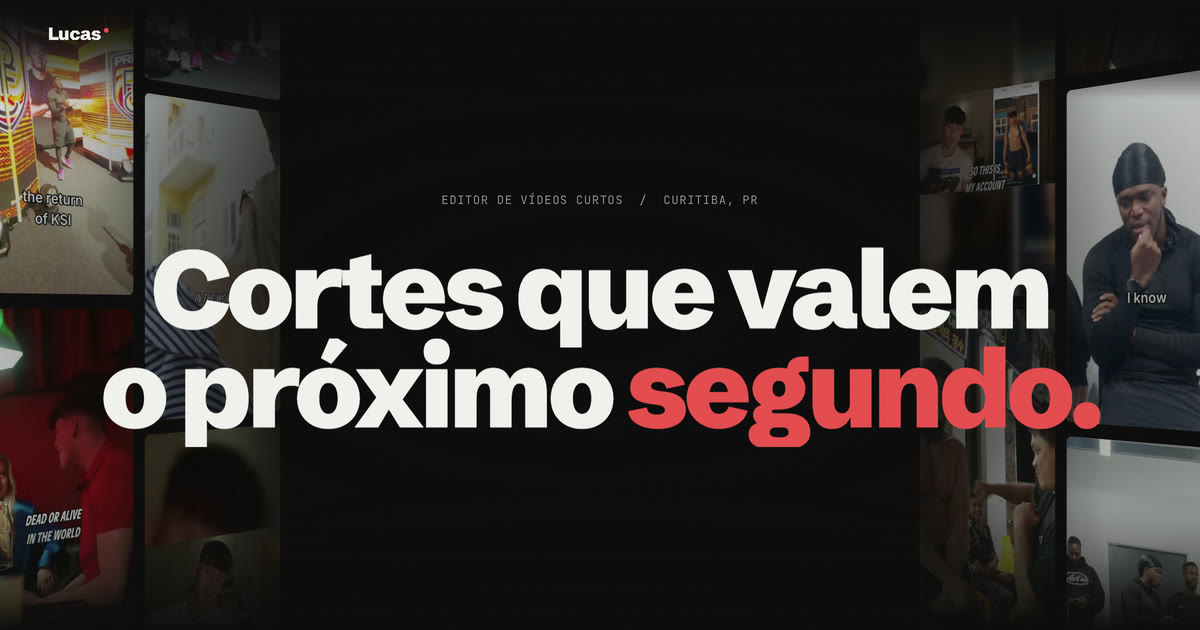
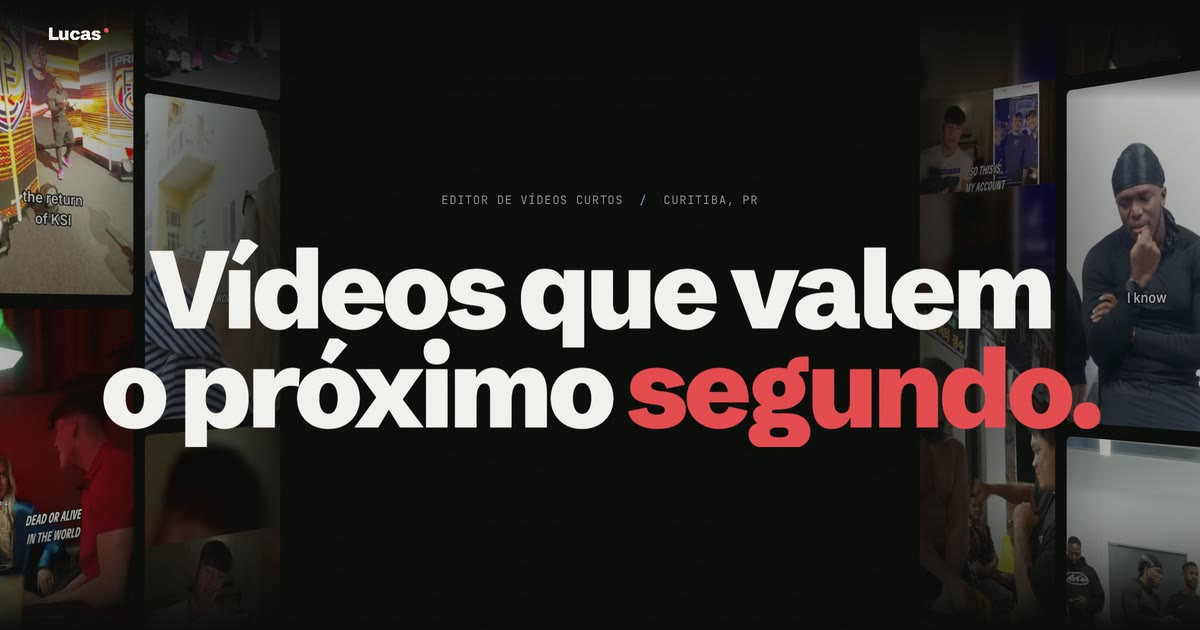
Troca cortes por videos nos textos e na imagem do link

diff --git a/index.html b/index.html
@@ -4,7 +4,7 @@
 <meta charset="UTF-8">
 <meta name="viewport" content="width=device-width, initial-scale=1, viewport-fit=cover">
 <title>Lucas | Editor de vídeos curtos</title>
-<meta name="description" content="Cortes verticais para criadores, canais de esporte e artistas da música. Gancho primeiro, legenda limpa, entrega em até 72 horas.">
+<meta name="description" content="Vídeos verticais para criadores, canais de esporte e artistas da música. Gancho primeiro, legenda limpa, entrega em até 72 horas.">
 <meta name="theme-color" content="#070707">
 <link rel="canonical" href="https://lucasstospereira.github.io/">
 <meta property="og:type" content="website">
@@ -12,7 +12,7 @@
 <meta property="og:site_name" content="Lucas">
 <meta property="og:url" content="https://lucasstospereira.github.io/">
 <meta property="og:title" content="Lucas | Editor de vídeos curtos">
-<meta property="og:description" content="Cortes verticais para criadores, canais de esporte e artistas da música. Me manda um vídeo e eu edito de graça.">
+<meta property="og:description" content="Vídeos verticais para criadores, canais de esporte e artistas da música. Me manda um vídeo e eu edito de graça.">
 <meta property="og:image" content="https://lucasstospereira.github.io/assets/share.jpg">
 <meta property="og:image:width" content="1200">
 <meta property="og:image:height" content="630">
@@ -315,7 +315,7 @@ footer .mark{font-weight:900;letter-spacing:-.06em;line-height:.74;font-size:27.
   <div class="mid">
     <span class="mono tc" id="tc-leader">00:00:00:00</span>
     <span class="rule"><i></i></span>
-    <span class="mono lbl">Lucas — Seleção de cortes</span>
+    <span class="mono lbl">Lucas — Seleção de vídeos</span>
   </div>
 </div>
 
@@ -337,16 +337,16 @@ footer .mark{font-weight:900;letter-spacing:-.06em;line-height:.74;font-size:27.
 
   <div class="hero-in">
     <p class="kicker mono h-fade"><span>Editor de vídeos curtos</span><b>/</b><span>Curitiba, PR</span></p>
-    <h1><span class="ln"><span>Cortes que valem</span></span><span class="ln"><span>o próximo <span class="cut">segundo.</span></span></span></h1>
+    <h1><span class="ln"><span>Vídeos que valem</span></span><span class="ln"><span>o próximo <span class="cut">segundo.</span></span></span></h1>
     <p class="lede h-fade">Edito vídeos verticais para criadores, canais de esporte e artistas da música. <b>Gancho primeiro, legenda limpa, motion só quando ajuda.</b> Você manda o bruto e recebe o arquivo pronto para postar, normalmente em até 72 horas.</p>
     <div class="cta-row h-fade">
-      <a class="btn magnetic" data-cta href="#contact"><span>Pedir um corte de teste grátis</span><svg width="16" height="12" viewBox="0 0 16 12" fill="none" stroke="currentColor" stroke-width="1.6"><path d="M0 6h14M9 1l5 5-5 5"/></svg></a>
+      <a class="btn magnetic" data-cta href="#contact"><span>Pedir um vídeo de teste grátis</span><svg width="16" height="12" viewBox="0 0 16 12" fill="none" stroke="currentColor" stroke-width="1.6"><path d="M0 6h14M9 1l5 5-5 5"/></svg></a>
       <a class="tlink" href="#work">Ver os trabalhos</a>
     </div>
   </div>
 
   <div class="hero-foot mono h-fade" aria-hidden="true">
-    <span class="hide-s">Reel 2026 — <span id="n-clips">08</span> cortes</span>
+    <span class="hide-s">Reel 2026 — <span id="n-clips">08</span> vídeos</span>
     <span class="scroll"><i></i>Role</span>
     <span class="hide-s">Curitiba <span class="clock">--:--:--</span></span>
   </div>
@@ -363,8 +363,8 @@ footer .mark{font-weight:900;letter-spacing:-.06em;line-height:.74;font-size:27.
 <section id="work" class="wrap">
   <div class="sec-head">
     <span class="n mono">01 — Trabalhos selecionados</span>
-    <h2 class="rise"><span class="ln"><span>Corte, legenda,</span></span><span class="ln"><span>entrega.</span></span></h2>
-    <p class="sub">Cortes verticais entregues para canais de verdade. Abra um quadro para assistir com som. Cada um diz o que eu recebi e o que saiu.</p>
+    <h2 class="rise"><span class="ln"><span>Edição, legenda,</span></span><span class="ln"><span>entrega.</span></span></h2>
+    <p class="sub">Vídeos verticais entregues para canais de verdade. Abra um quadro para assistir com som. Cada um diz o que eu recebi e o que saiu.</p>
   </div>
   <div class="filters" role="group" aria-label="Filtrar trabalhos por categoria"></div>
   <div class="grid"></div>
@@ -376,15 +376,15 @@ footer .mark{font-weight:900;letter-spacing:-.06em;line-height:.74;font-size:27.
 </section>
 
 <section class="terms" aria-label="Como o trabalho funciona">
-  <div><span class="k mono">Prazo</span><div class="num"><span data-count="72">72</span><small>h</small></div><p>Padrão por corte. Entra o bruto, sai pronto para postar.</p></div>
-  <div><span class="k mono">Volume</span><div class="num"><span data-count="45">45</span><small>/mês</small></div><p>Pacotes mensais de 15, 30 ou 45 cortes, numa planilha que você acompanha.</p></div>
+  <div><span class="k mono">Prazo</span><div class="num"><span data-count="72">72</span><small>h</small></div><p>Padrão por vídeo. Entra o bruto, sai pronto para postar.</p></div>
+  <div><span class="k mono">Volume</span><div class="num"><span data-count="45">45</span><small>/mês</small></div><p>Pacotes mensais de 15, 30 ou 45 vídeos, numa planilha que você acompanha.</p></div>
   <div><span class="k mono">Revisão</span><div class="num"><span data-count="1">1</span><small>rodada</small></div><p>Já está no preço. Ajuste faz parte do trabalho, não é discussão.</p></div>
   <div><span class="k mono">Formato</span><div class="num">9:16</div><p>Vertical, pronto para Reels, TikTok e Shorts.</p></div>
 </section>
 
 <section id="process" class="wrap">
   <div class="sec-head">
-    <span class="n mono">03 — Quem edita seus cortes</span>
+    <span class="n mono">03 — Quem edita seus vídeos</span>
     <h2 class="rise"><span class="ln"><span>Eu. Sem agência</span></span><span class="ln"><span>no meio.</span></span></h2>
     <p class="sub">Sem terceirizar. Feito para agências e criadores que precisam de volume sem ficar em cima do editor.</p>
   </div>
@@ -395,15 +395,15 @@ footer .mark{font-weight:900;letter-spacing:-.06em;line-height:.74;font-size:27.
     </figure>
     <ul class="rows">
       <li><span class="i mono">01</span><div><h3>Manda o bruto, recebe pronto</h3><p>Coloque o material numa pasta compartilhada do Drive. Você recebe os verticais prontos para postar, com legenda, sound design e cor.</p></div></li>
-      <li><span class="i mono">02</span><div><h3>Português e inglês</h3><p>Edito e legendo nos dois idiomas. Nesta página tem corte em inglês, para canais do Reino Unido, e em português.</p></div></li>
-      <li><span class="i mono">03</span><div><h3>Uma rodada de revisão, já incluída</h3><p>Ajuste faz parte do preço, não é discussão. Uma planilha mostra o andamento de cada corte.</p></div></li>
+      <li><span class="i mono">02</span><div><h3>Português e inglês</h3><p>Edito e legendo nos dois idiomas. Nesta página tem vídeo em inglês, para canais do Reino Unido, e em português.</p></div></li>
+      <li><span class="i mono">03</span><div><h3>Uma rodada de revisão, já incluída</h3><p>Ajuste faz parte do preço, não é discussão. Uma planilha mostra o andamento de cada vídeo.</p></div></li>
       <li><span class="i mono">04</span><div><h3>Premiere, DaVinci, After Effects</h3><p>Edição no Premiere, cor no DaVinci Resolve e motion no After Effects quando o vídeo pede mais do que corte seco.</p></div></li>
     </ul>
   </div>
 </section>
 
 <section class="contact" id="contact">
-  <span class="n mono">04 — Corte de teste grátis</span>
+  <span class="n mono">04 — Vídeo de teste grátis</span>
   <h2 class="rise"><span class="ln"><span>Me manda um</span></span><span class="ln"><span>vídeo. Eu edito</span></span><span class="ln"><span>de <span class="cut">graça.</span></span></span></h2>
   <p class="sub">O jeito mais rápido de saber se eu sou o seu editor é ver o seu próprio conteúdo editado por mim. Sem compromisso. Se gostar, a gente conversa sobre volume.</p>
   <div class="cta-row">
@@ -455,25 +455,25 @@ var MAIL_BODY = [
   '',
   'Canal ou marca: ',
   'Plataformas (TikTok, Reels, Shorts): ',
-  'Cortes por mês (15 / 30 / 45): ',
+  'Vídeos por mês (15 / 30 / 45): ',
   'Material que eu enviaria: ',
   'Quando gostaria de começar: ',
   '',
-  'Também posso mandar um vídeo para o corte de teste grátis.',
+  'Também posso mandar um vídeo para o teste grátis.',
   '',
   'Abraço,',
   ''
 ].join('\r\n');
 var WORK = [
   {id:'prime-return',   cat:'sports',   client:'Prime FC',       title:'A volta do KSI',               meta:'Imagens do dia de jogo → vertical de 27 s, com legenda e cor', dur:26.88},
-  {id:'joe-sweden',     cat:'creators', client:'Joe Fazer',      title:'As garotas mais bonitas do mundo', meta:'Episódio longo → corte de 53 s, legenda com contorno e mapas animados', dur:52.8},
-  {id:'ryuki-madrid',   cat:'creators', client:'Ryuki Furukawa', title:'O novo circuito de F1 de Madrid',         meta:'Fala para a câmera → corte de 50 s com gráficos na tela', dur:49.63},
-  {id:'joe-vietnam',    cat:'creators', client:'Joe Fazer',      title:'O traje de músculos de £500',            meta:'Episódio longo → corte de 77 s, legenda com contorno', dur:77.26},
+  {id:'joe-sweden',     cat:'creators', client:'Joe Fazer',      title:'As garotas mais bonitas do mundo', meta:'Episódio longo → vídeo de 53 s, legenda com contorno e mapas animados', dur:52.8},
+  {id:'ryuki-madrid',   cat:'creators', client:'Ryuki Furukawa', title:'O novo circuito de F1 de Madrid',         meta:'Fala para a câmera → vídeo de 50 s com gráficos na tela', dur:49.63},
+  {id:'joe-vietnam',    cat:'creators', client:'Joe Fazer',      title:'O traje de músculos de £500',            meta:'Episódio longo → vídeo de 77 s, legenda com contorno', dur:77.26},
   {id:'prime-teamtalk', cat:'sports',   client:'Prime FC',       title:'A preleção do KSI',                 meta:'Imagens do vestiário → vertical de 32 s, com legenda e cor', dur:32},
-  {id:'joe-stockholm',  cat:'creators', client:'Joe Fazer',      title:'Uma última noite em Estocolmo',     meta:'Episódio longo → corte de 62 s, legenda com contorno', dur:62.1},
-  {id:'joe-tinder',     cat:'creators', client:'Joe Fazer',      title:'Tinder na Suécia',                meta:'Episódio longo → corte de 41 s, tela dividida', dur:40.8},
-  {id:'prime-room',     cat:'sports',   client:'Prime FC',       title:'KSI depois do 6 a 2',               meta:'Duas câmeras sincronizadas pelo áudio → corte de 27 s, com reações e cor a partir do log', dur:27.08},
-  {id:'joe-train',      cat:'creators', client:'Joe Fazer',      title:'Tudo o que comprei no trem mais longo da Índia', meta:'Episódio longo → corte de 50 s, legenda com contorno', dur:49.52},
+  {id:'joe-stockholm',  cat:'creators', client:'Joe Fazer',      title:'Uma última noite em Estocolmo',     meta:'Episódio longo → vídeo de 62 s, legenda com contorno', dur:62.1},
+  {id:'joe-tinder',     cat:'creators', client:'Joe Fazer',      title:'Tinder na Suécia',                meta:'Episódio longo → vídeo de 41 s, tela dividida', dur:40.8},
+  {id:'prime-room',     cat:'sports',   client:'Prime FC',       title:'KSI depois do 6 a 2',               meta:'Duas câmeras sincronizadas pelo áudio → vídeo de 27 s, com reações e cor a partir do log', dur:27.08},
+  {id:'joe-train',      cat:'creators', client:'Joe Fazer',      title:'Tudo o que comprei no trem mais longo da Índia', meta:'Episódio longo → vídeo de 50 s, legenda com contorno', dur:49.52},
   {id:'prime-goal',     cat:'sports',   client:'Prime FC',       title:'O passe do McKenzie',              meta:'Jogo inteiro → clipe do gol em 10 s', dur:10.5}
   // ,{id:'tourbag',    cat:'music',    client:'Tourbag',        title:'[title]',                         meta:'[what you got → what you shipped]', dur:30}
 ];
